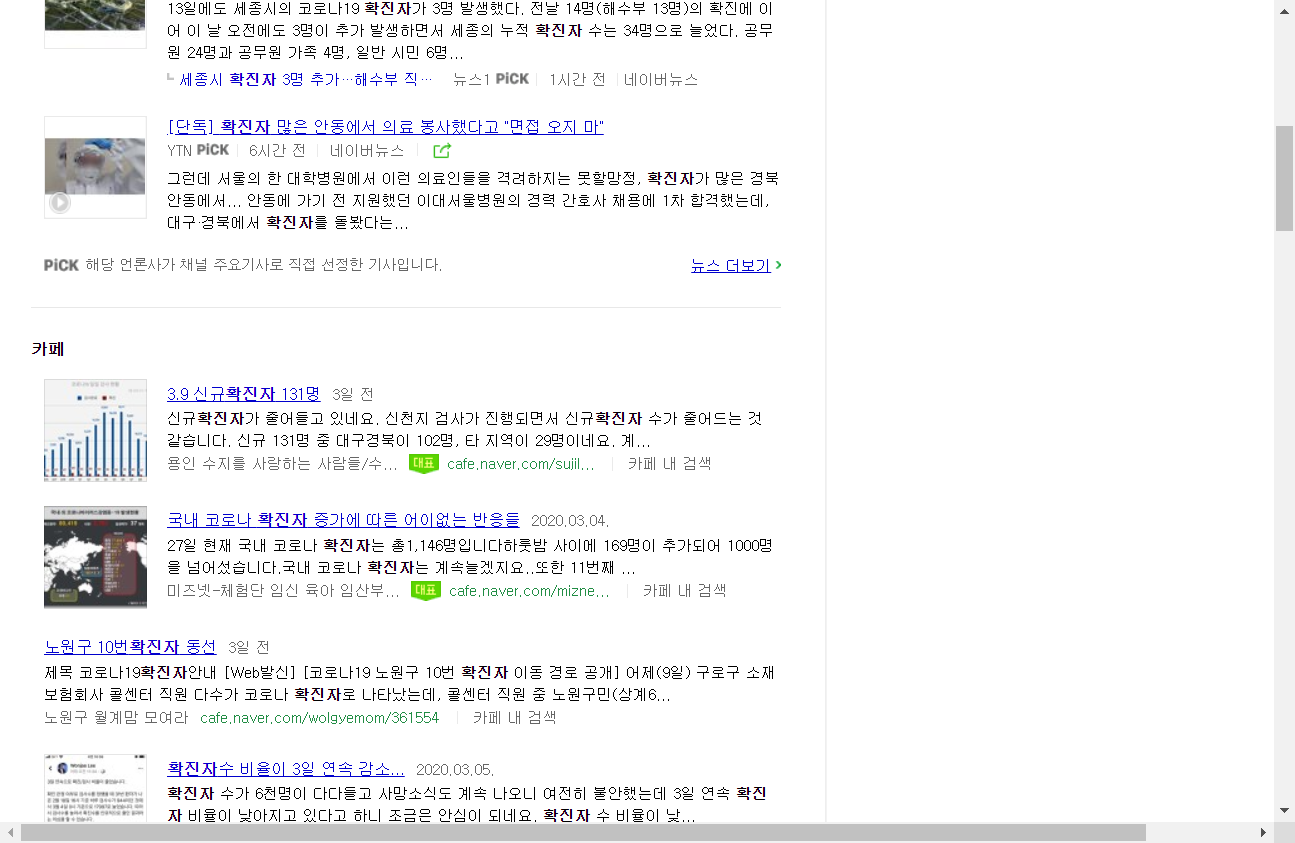
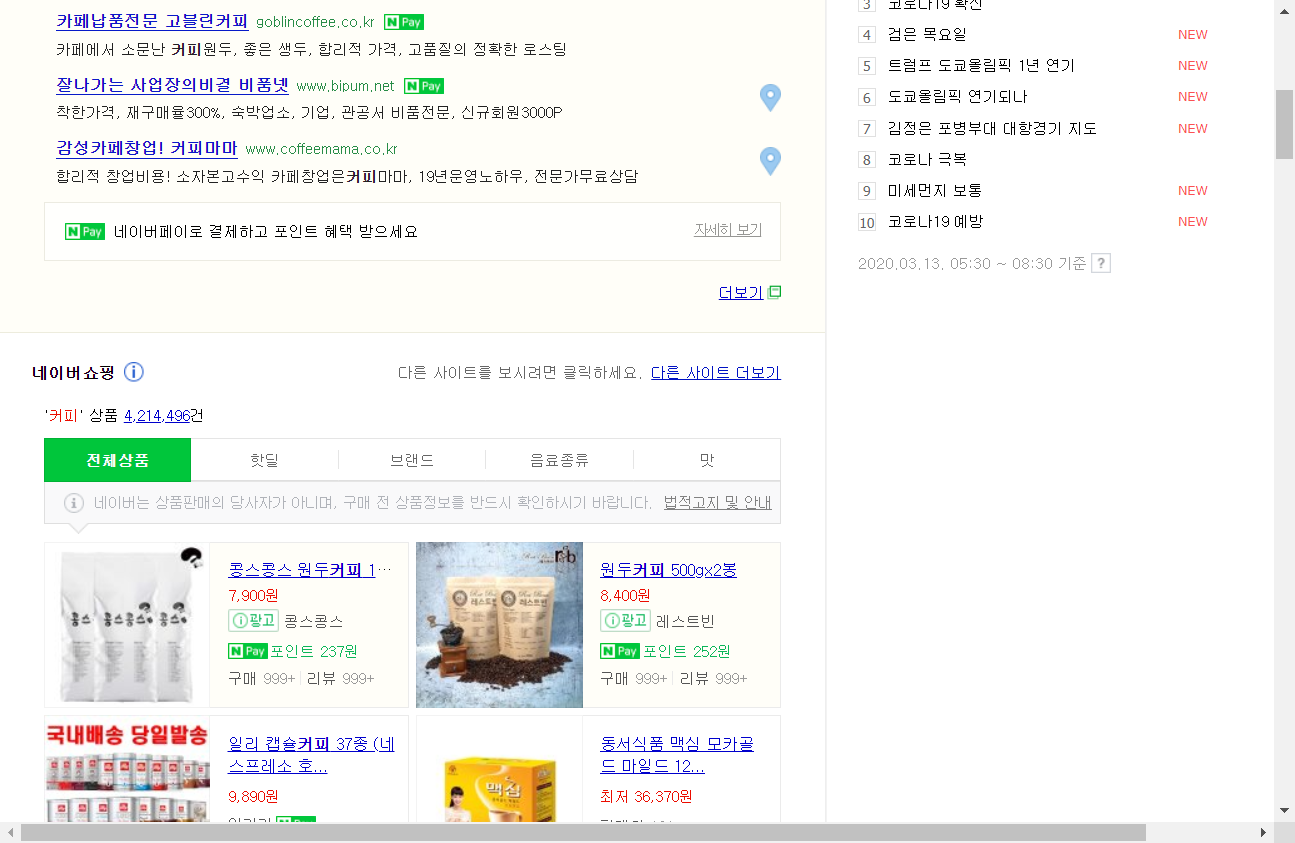
update

diff --git a/analysis/templates/analysis/inside.html b/analysis/templates/analysis/inside.html
@@ -17,7 +17,7 @@
             <br>
             {#            <div class="form-group">#}
             {#                <span class="align-center">#}
-            <form action="{% url 'analysis:index' %}" method="GET" class="form-inline justify-content-center">
+            <form action="{% url 'analysis:inside' %}" method="GET" class="form-inline justify-content-center">
                 {#                    <div class="row">#}
                 {#                        <div class="col-3"></div>#}
                 {#                        <div class="col-6">#}
@@ -33,163 +33,147 @@
             {#            </div>#}
             <br>
         </div>
-            <div class="row">
-                <div class="col-4">
-                    <table class="table table-sm table-hover">
-                        <h6>연관키워드 TOP 20</h6>
-                        <thead class="thead-dark">
-                        <tr>
-                            <th>순위</th>
-                            <th>연관키워드 </th>
-                            <th>최근 월조회수</th>
-                        </tr>
-                        </thead>
-                        <tbody>
-                        <tr>
-                            {% for data in reldata.relData|dictsortreversed:"relCurView"|slice:":20" %}
-                                {% if q == data.relKeyword %}
-                                    <th scope="row" class="bg-warning">{{ forloop.counter }}</th>
-                                    <td class="bg-warning">{{ data.relKeyword }}</td>
-                                    <td class="bg-warning">{{ data.relCurView|intcomma }}</td>
-                                {% else %}
-                                    <th scope="row">{{ forloop.counter }}</th>
-                                    <td>{{ data.relKeyword }}</td>
-                                    <td>{{ data.relCurView|intcomma }}</td>
-                                {% endif %}
-                                </tr>
+        <div class="row">
+            <div class="col-4">
+                <table class="table table-sm table-hover">
+                    <h6>연관키워드 TOP 20</h6>
+                    <thead class="thead-dark">
+                    <tr>
+                        <th>순위</th>
+                        <th>연관키워드 </th>
+                        <th>최근 월조회수</th>
+                    </tr>
+                    </thead>
+                    <tbody>
+                    <tr>
+                        {% for data in reldata.relData|dictsortreversed:"relCurView"|slice:":20" %}
+                            {% if q == data.relKeyword %}
+                                <th scope="row" class="bg-warning">{{ forloop.counter }}</th>
+                                <td class="bg-warning">{{ data.relKeyword }}</td>
+                                <td class="bg-warning">{{ data.relCurView|intcomma }}</td>
+                            {% else %}
+                                <th scope="row">{{ forloop.counter }}</th>
+                                <td>{{ data.relKeyword }}</td>
+                                <td>{{ data.relCurView|intcomma }}</td>
+                            {% endif %}
+                            </tr>
+                            <tr></tr>
+                        {% endfor %}
+                    </tbody>
+                </table>
+            </div>
+            <div class="col-8">
+                <br>
+                <div class="p-3 border border-primary">
+                    <div class="row">
+                        <div class="col-6">
+                            <table class="table table-sm table-striped">
+                                <h5>{{ reldata.keyword }}에 대한 검색결과</h5>
+                                <thead class="table-info">
+                                <th colspan="6">키워드 순위</th>
+                                </thead>
+                                <tbody>
+                                <td>
+                                    {% for data in reldata.relData|dictsortreversed:"relCurView"%}
+                                        {% if q == data.relKeyword %}
+                                            <th>{{ forloop.counter }}</th>
+                                        {% endif %}
+                                    {% endfor %}
+                                </td>
+                                <td>/   {{ reldata.relData|length }}</td>
+                                </tbody>
+                            </table>
+                        </div>
+
+                        <div class="col-6">
+                            <table class="table table-sm table-striped">
+                                <h6>총조회수</h6>
+                                <thead class="table-info">
+                                <th>PC</th>
+                                <th>모바일</th>
+                                </thead>
+                                <tbody>
+                                <td>{{ reldata.curPC|intcomma }}</td>
+                                <td>{{ reldata.curMobile|intcomma }}</td>
+                                </tbody>
+                            </table>
+                        </div>
+                        <div class="col-6">
+                            <table class="table table-sm table-striped">
+                                <h6>남여비율</h6>
+                                <thead class="table-info">
+                                <th>남</th>
+                                <th>여</th>
+                                </thead>
+                                <tbody>
+                                <td>{{ f_ratio }}%</td>
+                                <td>{{ m_ratio }}%</td>
+                                </tbody>
+                            </table>
+                        </div>
+                        <br>
+                        <div class="col-12">
+                            <table class="table table-sm table-striped">
+                                <h6>연령별 비율</h6>
+                                <thead class="table-info">
+                                <th></th>
+                                <th>10-12</th>
+                                <th>13-19</th>
+                                <th>20-24</th>
+                                <th>25-29</th>
+                                <th>30-39</th>
+                                <th>40-49</th>
+                                <th>50-</th>
+                                </thead>
+
+                                <tbody>
+                                <td>남</td>
+                                {% for mage in m_age %}
+                                    <td>{{ mage }}%</td>
+                                {% endfor %}
                                 <tr></tr>
-                            {% endfor %}
-                        </tbody>
-                    </table>
-                </div>
-                <div class="col-8">
-                    <br>
-                    <div class="p-3 border border-primary">
-                        <div class="row">
-                            <div class="col-6">
-                                <table class="table table-sm table-striped">
-                                    <h5>{{ reldata.keyword }}에 대한 검색결과</h5>
-                                    <thead class="table-info">
-                                    <th colspan="6">키워드 순위</th>
-                                    </thead>
-                                    <tbody>
-                                    <td>
-                                        {% for data in reldata.relData|dictsortreversed:"relCurView"%}
-                                            {% if q == data.relKeyword %}
-                                                <th>{{ forloop.counter }}</th>
-                                            {% endif %}
-                                        {% endfor %}
-                                    </td>
-                                    <td>/   {{ reldata.relData|length }}</td>
-                                    </tbody>
-                                </table>
+                                <td>여</td>
+                                {% for fage in f_age %}
+                                    <td>{{ fage }}%</td>
+                                {% endfor %}
+                                </tbody>
+                            </table>
+                            <script src="https://cdnjs.cloudflare.com/ajax/libs/Chart.js/2.9.3/Chart.bundle.js"></script>
+                            <div id="container" style="width: 100%;">
+                                <canvas id="line-chart"></canvas>
                             </div>
+                            <script>
 
-                            <div class="col-6">
-                                <table class="table table-sm table-striped">
-                                    <h6>총조회수</h6>
-                                    <thead class="table-info">
-                                    <th>PC</th>
-                                    <th>모바일</th>
-                                    </thead>
-                                    <tbody>
-                                    <td>{{ reldata.curPC|intcomma }}</td>
-                                    <td>{{ reldata.curMobile|intcomma }}</td>
-                                    </tbody>
-                                </table>
-                            </div>
-                            <div class="col-6">
-                                <table class="table table-sm table-striped">
-                                    <h6>남여비율</h6>
-                                    <thead class="table-info">
-                                    <th>남</th>
-                                    <th>여</th>
-                                    </thead>
-                                    <tbody>
-                                    <td>{{ f_ratio }}%</td>
-                                    <td>{{ m_ratio }}%</td>
-                                    </tbody>
-                                </table>
-                            </div>
-                            <br>
-                            <div class="col-12">
-                                <table class="table table-sm table-striped">
-                                    <h6>연령별 비율</h6>
-                                    <thead class="table-info">
-                                    <th></th>
-                                    <th>10-12</th>
-                                    <th>13-19</th>
-                                    <th>20-24</th>
-                                    <th>25-29</th>
-                                    <th>30-39</th>
-                                    <th>40-49</th>
-                                    <th>50-</th>
-                                    </thead>
+                                var config = {
+                                    type: 'line',
+                                    data: {
+                                        datasets: [{
+                                            data: {{ data|safe }},
+                                            backgroundColor: [
+                                                '#00c73c'
+                                            ],
+                                            label: '검색량 추이'
+                                        }],
+                                        labels: {{ labels|safe }}
+                                    },
+                                    options: {
+                                        responsive: true
+                                    }
+                                };
 
-                                    <tbody>
-                                    <td>남</td>
-                                    {% for mage in m_age %}
-                                        <td>{{ mage }}%</td>
-                                    {% endfor %}
-                                    <tr></tr>
-                                    <td>여</td>
-                                    {% for fage in f_age %}
-                                        <td>{{ fage }}%</td>
-                                    {% endfor %}
-                                    </tbody>
-                                </table>
-                                <script src="https://cdnjs.cloudflare.com/ajax/libs/Chart.js/2.9.3/Chart.bundle.js"></script>
-                                <div id="container" style="width: 100%;">
-                                    <canvas id="line-chart"></canvas>
-                                </div>
-                                <script>
+                                window.onload = function() {
+                                    var ctx = document.getElementById('line-chart').getContext('2d');
+                                    window.myPie = new Chart(ctx, config);
+                                };
 
-                                    var config = {
-                                        type: 'line',
-                                        data: {
-                                            datasets: [{
-                                                data: {{ data|safe }},
-                                                backgroundColor: [
-                                                    '#00c73c'
-                                                ],
-                                                label: '검색량 추이'
-                                            }],
-                                            labels: {{ labels|safe }}
-                                        },
-                                        options: {
-                                            responsive: true
-                                        }
-                                    };
+                            </script>
 
-                                    window.onload = function() {
-                                        var ctx = document.getElementById('line-chart').getContext('2d');
-                                        window.myPie = new Chart(ctx, config);
-                                    };
-
-                                </script>
-
-                            </div>
                         </div>
                     </div>
                 </div>
             </div>
-        <div class="row justify-content-center">
-            <table class="table">
-                {% if pc.blog %}
-                    <td>BLOG</td>
-                {% endif %}
-                {% if pc.cafe %}
-                    <td>CAFE</td>
-                {% endif %}
-                {% if pc.post %}
-                    <td>POST</td>
-                {% endif %}
-                {% if pc.kin %}
-                    <td>지식in</td>
-                {% endif %}
-            </table>
         </div>
-
+        <br>
         <div class="row">
             <div class="col-3">
                 {% if pc.post %}

diff --git a/naver_main_crawling.py b/naver_main_crawling.py
@@ -24,21 +24,21 @@ class NaverCrawl:
             field.submit()
             print('wait 2 secens...')
 
-            driver.save_screenshot(settings.MEDIA_ROOT+"naver_main.png")
-            driver.execute_script("window.scrollTo(0, 660);")
-            driver.save_screenshot(settings.MEDIA_ROOT+"naver_main2.png")
-            driver.execute_script("window.scrollTo(0, 660*2);")
-            driver.save_screenshot(settings.MEDIA_ROOT+"naver_main3.png")
-            driver.execute_script("window.scrollTo(0, 660*3);")
-            driver.save_screenshot(settings.MEDIA_ROOT+"naver_main4.png")
-            driver.execute_script("window.scrollTo(0, 660*4);")
-            driver.save_screenshot(settings.MEDIA_ROOT+"naver_main5.png")
-            driver.execute_script("window.scrollTo(0, 660*5);")
-            driver.save_screenshot(settings.MEDIA_ROOT+"naver_main6.png")
-            driver.execute_script("window.scrollTo(0, 660*6);")
-            driver.save_screenshot(settings.MEDIA_ROOT+"naver_main7.png")
-            driver.execute_script("window.scrollTo(0, 660*7);")
-            driver.save_screenshot(settings.MEDIA_ROOT+"naver_main8.png")
+            # driver.save_screenshot(settings.MEDIA_ROOT+"naver_main.png")
+            # driver.execute_script("window.scrollTo(0, 660);")
+            # driver.save_screenshot(settings.MEDIA_ROOT+"naver_main2.png")
+            # driver.execute_script("window.scrollTo(0, 660*2);")
+            # driver.save_screenshot(settings.MEDIA_ROOT+"naver_main3.png")
+            # driver.execute_script("window.scrollTo(0, 660*3);")
+            # driver.save_screenshot(settings.MEDIA_ROOT+"naver_main4.png")
+            # driver.execute_script("window.scrollTo(0, 660*4);")
+            # driver.save_screenshot(settings.MEDIA_ROOT+"naver_main5.png")
+            # driver.execute_script("window.scrollTo(0, 660*5);")
+            # driver.save_screenshot(settings.MEDIA_ROOT+"naver_main6.png")
+            # driver.execute_script("window.scrollTo(0, 660*6);")
+            # driver.save_screenshot(settings.MEDIA_ROOT+"naver_main7.png")
+            # driver.execute_script("window.scrollTo(0, 660*7);")
+            # driver.save_screenshot(settings.MEDIA_ROOT+"naver_main8.png")
 
             # 검색결과를 보여주기 위해, 페이지 전환이 발생할 텐데
             # 찾고자 하는 요소가 렌더링이 될 때까지, 최대 2초 대기

diff --git a/analysis/views.py b/analysis/views.py
@@ -90,9 +90,6 @@ class InsideView(ListView):
 
         # sorted_view = sorted(rel_data['relCurView'], reverse=True)
 
-        # PC 화면 크롤링
-        # pc = NaverCrawl().do_crawl(qq)
-
         if 'relGenderCount' in rel_data:
             ## 성별 비율 계산
             sum_female = sum(rel_data['relGenderCount']['f'].values())
@@ -135,7 +132,6 @@ class InsideView(ListView):
                 'm_age': mage,
                 'labels': graph_label,
                 'data': graph_data,
-                # 'pc': pc,
                 # 'results': data,
             }
         else:
@@ -146,9 +142,8 @@ class InsideView(ListView):
             crawl = NaverCrawl()
             pc = crawl.do_crawl(qq)
 
-            context += {
-                'pc': pc,
-            }
+            context['pc'] = pc
+
         return render(request, 'analysis/inside.html', context=context)
 
 class ExposurePC(ListView):
